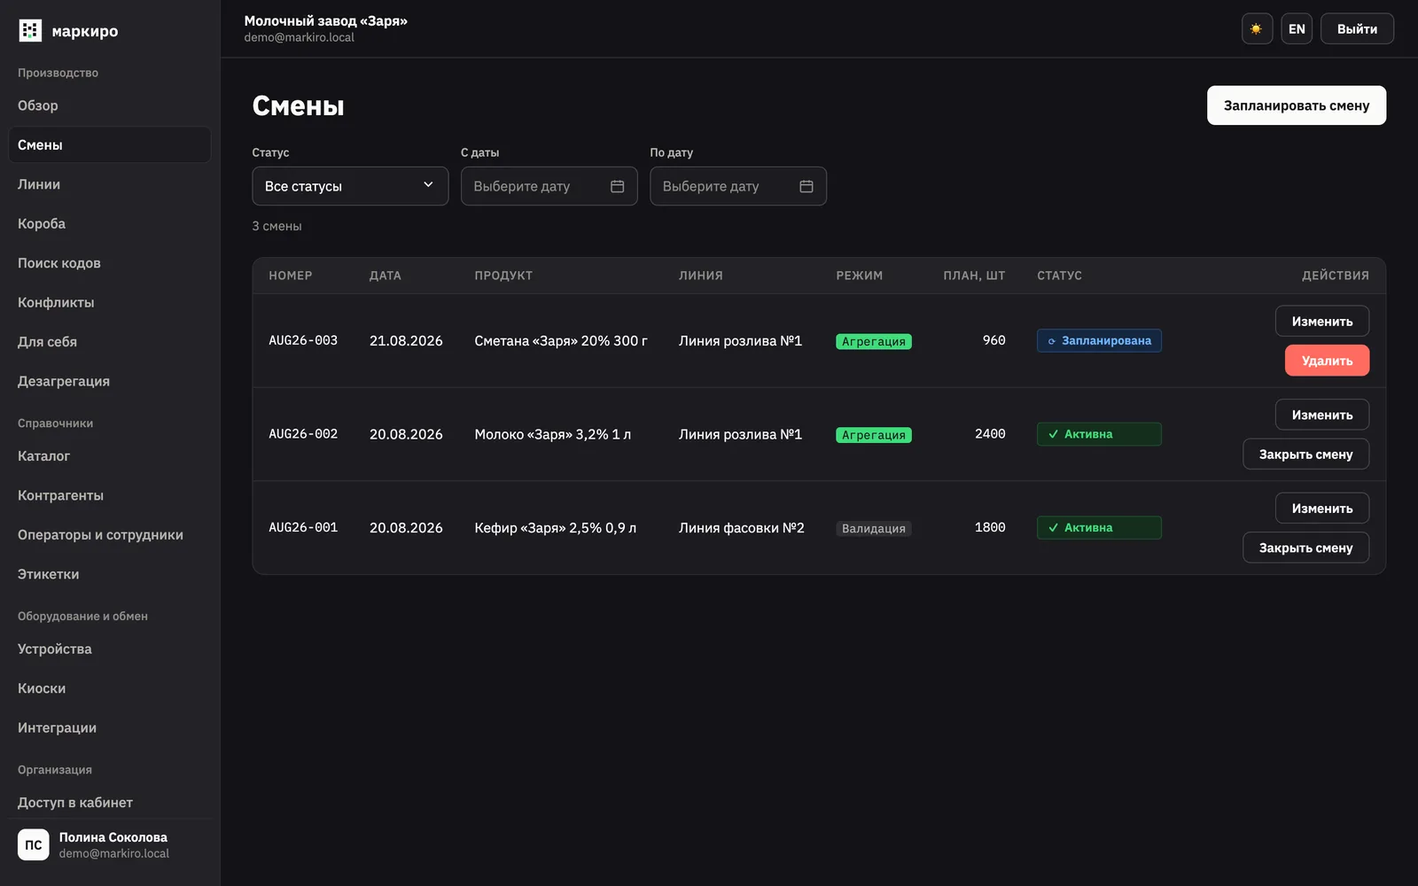
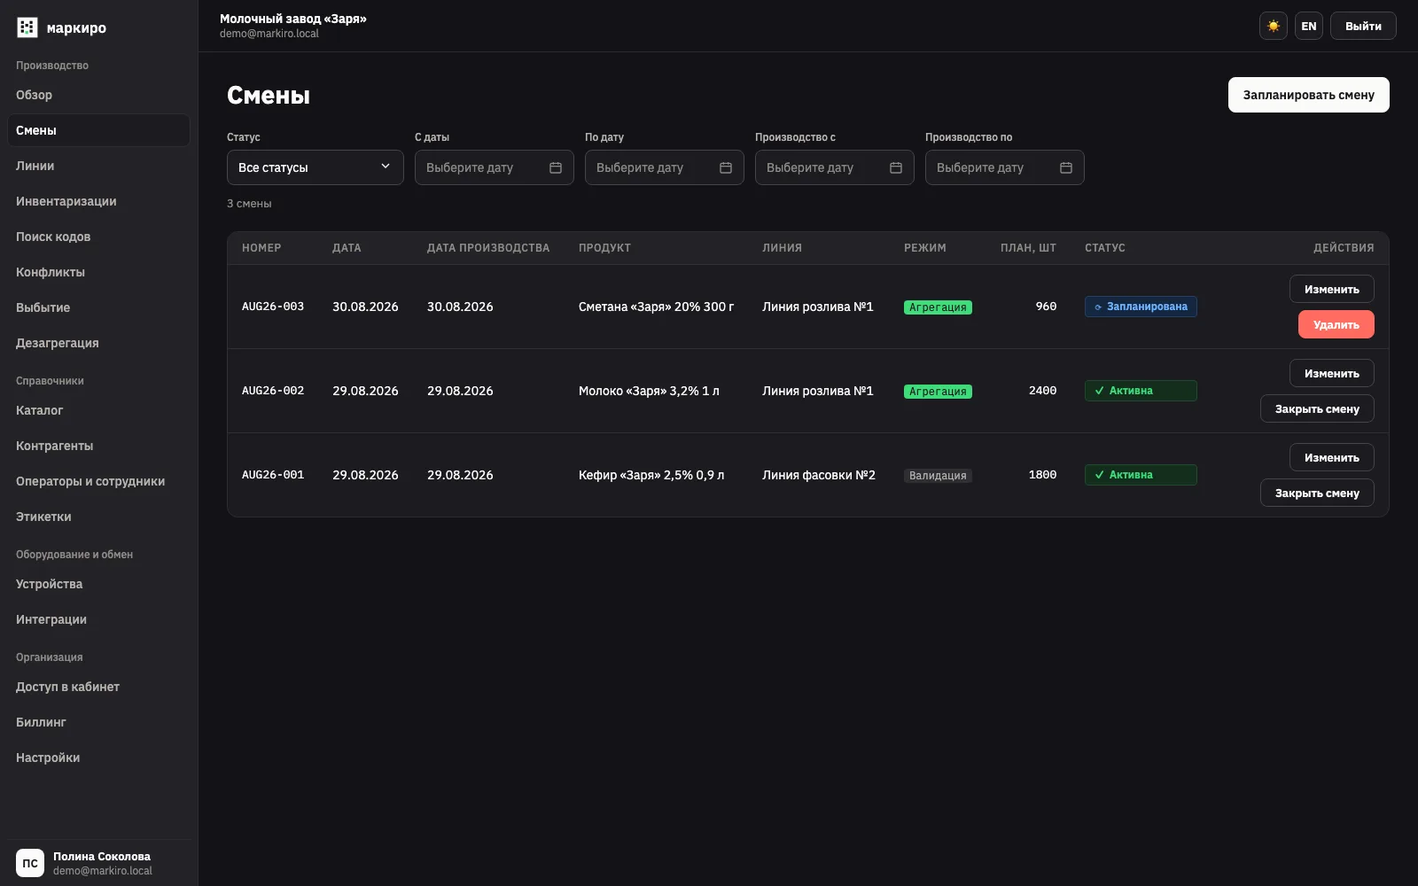
docs: refresh READMEs and recapture all three screenshots (#362)
The READMEs had drifted over ~50 commits. Corrections:

- pnpm 11.10 -> 11.22, matching packageManager in package.json.
- "box/pallet workflows" -> "box workflows". Pallets are not a
  workflow: palletsEnabled is an entitlement-gated shift flag and the
  station only reserves SSCC extension-digit ranges for them.
- Quick start failed on a fresh clone. .env.example ships
  PLATFORM_AUTH_SECRET empty, but apps/api/src/env.ts requires >=32
  characters and rejects a value equal to BETTER_AUTH_SECRET, so
  `cp .env.example .env` followed by the documented API start died with
  a ZodError. The block now generates one.

Additions: apps/signer and packages/platform-contracts in the workspace
tree, Signer plus the Chestny ZNAK True API edge in the architecture
diagram, Inventory and Chestny ZNAK capability rows, dashboard and
billing folded into the existing rows, and docs/runbooks in the docs
list.

All three screenshots were stale and are recaptured at 1600x1000:

- admin: the sidebar still showed "Для себя" and a separate "Киоски",
  both removed in #267. Recaptured against a seeded local API with data
  created through the real endpoints.
- station: the aggregation screen was redesigned; recaptured from the
  app's built-in screen gallery.
- kiosk: the header still read "маркиро · для себя"; current i18n is
  "выбытие". Rendered from the app's own components with fixture data.

Captions now say how each shot was produced rather than claiming all
[…]

diff --git a/README.ru.md b/README.ru.md
@@ -16,7 +16,7 @@
   <a href="https://github.com/thevladbog/markiro/actions/workflows/ci.yml"><img alt="CI" src="https://github.com/thevladbog/markiro/actions/workflows/ci.yml/badge.svg?branch=main"></a>
   <a href="https://github.com/thevladbog/markiro/actions/workflows/codeql.yml"><img alt="CodeQL" src="https://github.com/thevladbog/markiro/actions/workflows/codeql.yml/badge.svg"></a>
   <img alt="Node.js 24+" src="https://img.shields.io/badge/Node.js-24%2B-339933?logo=nodedotjs&logoColor=white">
-  <img alt="pnpm 11.10" src="https://img.shields.io/badge/pnpm-11.10-F69220?logo=pnpm&logoColor=white">
+  <img alt="pnpm 11.22" src="https://img.shields.io/badge/pnpm-11.22-F69220?logo=pnpm&logoColor=white">
   <img alt="TypeScript 6" src="https://img.shields.io/badge/TypeScript-6-3178C6?logo=typescript&logoColor=white">
   <img alt="Docker" src="https://img.shields.io/badge/Docker-ready-2496ED?logo=docker&logoColor=white">
   <img alt="PostgreSQL 17" src="https://img.shields.io/badge/PostgreSQL-17-4169E1?logo=postgresql&logoColor=white">
@@ -38,9 +38,10 @@
 
 - **Чтобы линия не останавливалась.** Станция и киоск сохраняют локальное состояние и восстанавливают работу после возвращения подключения.
 - **Чтобы отклонять некорректные данные на месте.** Общая логика GS1/GTIN/KM выявляет повреждённые коды, дубликаты и коды другого товара до того, как они создадут проблемы в отчётности.
-- **Чтобы агрегировать и печатать единообразно.** Пулы SSCC, операции с коробами и палетами, а также вывод в ZPL/TSPL опираются на общие доменные правила.
+- **Чтобы агрегировать и печатать единообразно.** Пулы SSCC, операции с коробами и вывод в ZPL/TSPL опираются на общие доменные правила.
+- **Чтобы замкнуть цикл инвентаризации.** Задания инвентаризации, пересчёт и переупаковка на станции и генерация документов ГИС МТ заменяют ручной обмен файлами с государственной системой.
 - **Чтобы каждая граница безопасности была явной.** Для данных арендаторов, сессий кабинета, учётных данных устройств и идентификации операторов действуют отдельные механизмы контроля.
-- **Чтобы интегрироваться с действующими системами.** API и обмен CommerceML/1C связывают «Маркиро» с существующими системами предприятия, сохраняя offline-first подход к восстановлению производства.
+- **Чтобы интегрироваться с действующими системами.** API, обмен CommerceML/1C и агент подписания для True API «Честного знака» связывают «Маркиро» с существующими системами предприятия, сохраняя offline-first подход к восстановлению производства.
 
 ## Интерфейсы продукта
 
@@ -50,23 +51,25 @@
     <td width="50%"><a href="./docs/assets/readme/kiosk.webp"><img alt="Скриншот киоска выдачи «Маркиро»" src="./docs/assets/readme/kiosk.webp"></a></td>
   </tr>
   <tr>
-    <td><strong>Админ-панель.</strong> Товары, смены, шаблоны этикеток, интеграции, команды, заказы на выдачу и операционный аудит.</td>
+    <td><strong>Админ-панель.</strong> Обзор, товары, смены, инвентаризации, шаблоны этикеток, интеграции, биллинг, доступ в кабинет и операционный аудит.</td>
     <td><strong>Киоск «Выбытие».</strong> Выдача сотрудникам по пропускам с локальными лимитами, offline-снимками, очередью заказов и восстановлением.</td>
   </tr>
 </table>
 
-<p align="center"><em>Скриншоты работающего приложения в локальной среде разработки с демонстрационными данными.</em></p>
+<p align="center"><em>Админ-панель снята на работающем локальном API с демонстрационными данными; экран киоска отрисован его собственными компонентами на фикстурных данных.</em></p>
 
 ## Основные возможности
 
-| Область           | Что реализовано                                                                                                 |
-| ----------------- | --------------------------------------------------------------------------------------------------------------- |
-| Коды и валидация  | Контрольные цифры GS1, нормализация GTIN, разбор KM, классификация сканов, обработка дубликатов и ошибок        |
-| Производство      | Смены, сканирование на нескольких терминалах, offline-журналы, синхронизация, конфликты, действия операторов    |
-| Агрегация         | Пулы SSCC, короба, этикетки коробов, аудит расформирования и повторной печати, общее состояние агрегации        |
-| Этикетки          | WYSIWYG-шаблоны, растеризация кириллицы, генерация ZPL/TSPL, привязка к товарам и сменам                        |
-| Выбытие           | Сопряжённые киоски, распознавание пропусков, дневные лимиты, offline-очередь и карантин, сверка с кабинетом     |
-| SaaS и интеграции | Мультитенантный кабинет, роли и возможности, обмен CommerceML/1C, отправка почты, приватное объектное хранилище |
+| Область           | Что реализовано                                                                                                       |
+| ----------------- | --------------------------------------------------------------------------------------------------------------------- |
+| Коды и валидация  | Контрольные цифры GS1, нормализация GTIN, разбор KM, классификация сканов, обработка дубликатов и ошибок              |
+| Производство      | Смены, сканирование на нескольких терминалах, offline-журналы, синхронизация, конфликты, действия операторов, дашборд |
+| Агрегация         | Пулы SSCC, короба, этикетки коробов, аудит расформирования и повторной печати, общее состояние агрегации              |
+| Инвентаризация    | Задания инвентаризации, пересчёт и переупаковка на станции, корректировки и поздние события, документы ГИС МТ         |
+| Этикетки          | WYSIWYG-шаблоны, растеризация кириллицы, генерация ZPL/TSPL, привязка к товарам и сменам                              |
+| Выбытие           | Сопряжённые киоски, распознавание пропусков, дневные лимиты, offline-очередь и карантин, сверка с кабинетом           |
+| «Честный знак»    | Агент подписания для аутентификации в True API, шифрованное хранение токена, товарные группы, выгрузки статусов кодов |
+| SaaS и интеграции | Мультитенантный кабинет, роли и возможности, биллинг и лимиты, обмен CommerceML/1C, почта, объектное хранилище        |
 
 ## Архитектура
 
@@ -76,10 +79,13 @@ flowchart LR
   Kiosk["Kiosk · React/Vite PWA"] --> API
   Station["Station · Tauri 2 + React"] -. "sync when connected" .-> API
   Station --> SQLite["Local SQLite journal"]
+  Signer["Signer · Tauri 2 + React"] -- "True API token" --> API
+  API -. "True API" .-> CHZ["Chestny ZNAK"]
   API --> PG["PostgreSQL 17"]
-  Shared["domain · db · ui · email"] --> Admin
+  Shared["domain · db · ui · email · platform-contracts"] --> Admin
   Shared --> Kiosk
   Shared --> Station
+  Shared --> Signer
   Shared --> API
 ```
 
@@ -90,7 +96,7 @@ flowchart LR
 ### Требования
 
 - Node.js 24 или новее
-- Corepack и pnpm 11.10.0
+- Corepack и pnpm 11.22.0
 - Docker с Docker Compose
 
 ```bash
@@ -99,6 +105,9 @@ pnpm install --frozen-lockfile
 pnpm --filter '@markiro/api^...' --filter '@markiro/admin^...' build
 if [ ! -e .env ]; then
   cp .env.example .env
+  # PLATFORM_AUTH_SECRET намеренно пуст в примере: API требует не менее
+  # 32 символов и отклоняет значение, совпадающее с BETTER_AUTH_SECRET.
+  printf 'PLATFORM_AUTH_SECRET=%s\n' "$(openssl rand -base64 32)" >> .env
 fi
 docker compose -f docker-compose.dev.yml up -d
 set -a
@@ -140,14 +149,16 @@ apps/
   admin/       React/Vite production cabinet
   kiosk/       Offline-first pickup PWA
   station/     Tauri/React line workstation
+  signer/      Tauri/React Chestny ZNAK signing agent (Windows)
   landing/     Public marketing website
   saas-admin/  SaaS operator panel
 packages/
-  domain/           GS1, KM, SSCC, labels, shared policy
-  db/               PostgreSQL schema, migrations, SQLite mirror
-  email/            Transactional email templates
-  ui/               Shared design tokens and React components
-  legal-documents/  Legal document sources and rendering
+  domain/              GS1, KM, SSCC, labels, shared policy
+  db/                  PostgreSQL schema, migrations, SQLite mirror
+  platform-contracts/  Shared platform, tenant, and agent API schemas
+  email/               Transactional email templates
+  ui/                  Shared design tokens and React components
+  legal-documents/     Legal document sources and rendering
 ```
 
 Точечная проверка во время разработки:
@@ -171,6 +182,7 @@ pnpm format:check
 - [Руководство для агентов](./AGENTS.md)
 - [Архитектура](./docs/architecture.md)
 - [Дизайн-брифы](./docs/design-briefs/)
+- [Эксплуатационные runbook’и](./docs/runbooks/)
 - [Планы реализации](./docs/superpowers/plans/)
 - [Дорожная карта MVP](./docs/superpowers/plans/2026-07-21-markiro-mvp-roadmap.md)
 - [Обозреватель OpenAPI](http://localhost:3000/docs), когда API запущен

diff --git a/README.md b/README.md
@@ -16,7 +16,7 @@
   <a href="https://github.com/thevladbog/markiro/actions/workflows/ci.yml"><img alt="CI" src="https://github.com/thevladbog/markiro/actions/workflows/ci.yml/badge.svg?branch=main"></a>
   <a href="https://github.com/thevladbog/markiro/actions/workflows/codeql.yml"><img alt="CodeQL" src="https://github.com/thevladbog/markiro/actions/workflows/codeql.yml/badge.svg"></a>
   <img alt="Node.js 24+" src="https://img.shields.io/badge/Node.js-24%2B-339933?logo=nodedotjs&logoColor=white">
-  <img alt="pnpm 11.10" src="https://img.shields.io/badge/pnpm-11.10-F69220?logo=pnpm&logoColor=white">
+  <img alt="pnpm 11.22" src="https://img.shields.io/badge/pnpm-11.22-F69220?logo=pnpm&logoColor=white">
   <img alt="TypeScript 6" src="https://img.shields.io/badge/TypeScript-6-3178C6?logo=typescript&logoColor=white">
   <img alt="Docker" src="https://img.shields.io/badge/Docker-ready-2496ED?logo=docker&logoColor=white">
   <img alt="PostgreSQL 17" src="https://img.shields.io/badge/PostgreSQL-17-4169E1?logo=postgresql&logoColor=white">
@@ -38,9 +38,10 @@ The platform is built for real production constraints: multiple terminals in one
 
 - **Keep the line moving.** Station and kiosk workflows retain local state and recover after connectivity returns.
 - **Reject bad input at the edge.** Shared GS1/GTIN/KM logic catches malformed, duplicate, and wrong-product codes before they become reporting problems.
-- **Aggregate and print consistently.** SSCC allocation, box/pallet workflows, and ZPL/TSPL output use shared domain rules.
+- **Aggregate and print consistently.** SSCC allocation, box workflows, and ZPL/TSPL output use shared domain rules.
+- **Close the inventory loop.** Inventory tasks, station recount and repack, and generated GISMT documents replace manual file exchange with the state system.
 - **Keep every boundary explicit.** Tenant data, cabinet sessions, device credentials, and operator identity have separate enforcement paths.
-- **Integrate with existing operations.** The API and CommerceML/1C flows connect Markiro to surrounding systems without moving factory recovery online-only.
+- **Integrate with existing operations.** The API, CommerceML/1C exchange, and the Chestny ZNAK True API agent connect Markiro to surrounding systems without moving factory recovery online-only.
 
 ## Product surfaces
 
@@ -50,23 +51,25 @@ The platform is built for real production constraints: multiple terminals in one
     <td width="50%"><a href="./docs/assets/readme/kiosk.webp"><img alt="Markiro pickup kiosk screenshot" src="./docs/assets/readme/kiosk.webp"></a></td>
   </tr>
   <tr>
-    <td><strong>Admin panel.</strong> Products, shifts, label templates, integrations, teams, pickup orders, and operational audit.</td>
+    <td><strong>Admin panel.</strong> Dashboard, products, shifts, inventories, label templates, integrations, billing, teams, and operational audit.</td>
     <td><strong>Disposal kiosk.</strong> Badge-based employee pickup with local limits, offline snapshots, queued orders, and recovery.</td>
   </tr>
 </table>
 
-<p align="center"><em>Screenshots of the live application running in a local development environment with demo data.</em></p>
+<p align="center"><em>The admin panel runs against a seeded local API; the kiosk screen is rendered from the app's own components with fixture data.</em></p>
 
 ## Core capabilities
 
-| Area                  | What is implemented                                                                                      |
-| --------------------- | -------------------------------------------------------------------------------------------------------- |
-| Codes and validation  | GS1 check digits, GTIN normalization, KM parsing, scan classification, duplicate/error handling          |
-| Production            | Shifts, multi-terminal scanning, offline journals, synchronization, conflicts, operator recovery actions |
-| Aggregation           | SSCC pools, boxes, box labels, disassembly/reprint audit, shared aggregation state                       |
-| Labels                | WYSIWYG templates, Cyrillic rasterization, ZPL/TSPL generation, product/shift bindings                   |
-| Disposal              | Paired kiosks, badge resolution, daily limits, offline queue/quarantine, cabinet reconciliation          |
-| SaaS and integrations | Multi-tenant cabinet, roles/capabilities, CommerceML/1C exchange, mail delivery, private object storage  |
+| Area                  | What is implemented                                                                                                 |
+| --------------------- | ------------------------------------------------------------------------------------------------------------------- |
+| Codes and validation  | GS1 check digits, GTIN normalization, KM parsing, scan classification, duplicate/error handling                     |
+| Production            | Shifts, multi-terminal scanning, offline journals, synchronization, conflicts, operator recovery actions, dashboard |
+| Aggregation           | SSCC pools, boxes, box labels, disassembly/reprint audit, shared aggregation state                                  |
+| Inventory             | Inventory tasks, station recount and repack, corrections and late events, GISMT aggregation XML and report package  |
+| Labels                | WYSIWYG templates, Cyrillic rasterization, ZPL/TSPL generation, product/shift bindings                              |
+| Disposal              | Paired kiosks, badge resolution, daily limits, offline queue/quarantine, cabinet reconciliation                     |
+| Chestny ZNAK          | Signer agent for the True API authentication flow, encrypted token storage, product groups, code-status exports     |
+| SaaS and integrations | Multi-tenant cabinet, roles/capabilities, billing and limits, CommerceML/1C exchange, mail, private object storage  |
 
 ## Architecture
 
@@ -76,10 +79,13 @@ flowchart LR
   Kiosk["Kiosk · React/Vite PWA"] --> API
   Station["Station · Tauri 2 + React"] -. "sync when connected" .-> API
   Station --> SQLite["Local SQLite journal"]
+  Signer["Signer · Tauri 2 + React"] -- "True API token" --> API
+  API -. "True API" .-> CHZ["Chestny ZNAK"]
   API --> PG["PostgreSQL 17"]
-  Shared["domain · db · ui · email"] --> Admin
+  Shared["domain · db · ui · email · platform-contracts"] --> Admin
   Shared --> Kiosk
   Shared --> Station
+  Shared --> Signer
   Shared --> API
 ```
 
@@ -90,7 +96,7 @@ Read [the architecture document](./docs/architecture.md) for tenant boundaries, 
 ### Prerequisites
 
 - Node.js 24 or newer
-- Corepack and pnpm 11.10.0
+- Corepack and pnpm 11.22.0
 - Docker with Docker Compose
 
 ```bash
@@ -99,6 +105,9 @@ pnpm install --frozen-lockfile
 pnpm --filter '@markiro/api^...' --filter '@markiro/admin^...' build
 if [ ! -e .env ]; then
   cp .env.example .env
+  # PLATFORM_AUTH_SECRET ships empty on purpose; the API requires at least
+  # 32 characters and rejects a value equal to BETTER_AUTH_SECRET.
+  printf 'PLATFORM_AUTH_SECRET=%s\n' "$(openssl rand -base64 32)" >> .env
 fi
 docker compose -f docker-compose.dev.yml up -d
 set -a
@@ -140,14 +149,16 @@ apps/
   admin/       React/Vite production cabinet
   kiosk/       Offline-first pickup PWA
   station/     Tauri/React line workstation
+  signer/      Tauri/React Chestny ZNAK signing agent (Windows)
   landing/     Public marketing website
   saas-admin/  SaaS operator panel
 packages/
-  domain/           GS1, KM, SSCC, labels, shared policy
-  db/               PostgreSQL schema, migrations, SQLite mirror
-  email/            Transactional email templates
-  ui/               Shared design tokens and React components
-  legal-documents/  Legal document sources and rendering
+  domain/              GS1, KM, SSCC, labels, shared policy
+  db/                  PostgreSQL schema, migrations, SQLite mirror
+  platform-contracts/  Shared platform, tenant, and agent API schemas
+  email/               Transactional email templates
+  ui/                  Shared design tokens and React components
+  legal-documents/     Legal document sources and rendering
 ```
 
 Focused iteration:
@@ -171,6 +182,7 @@ Database-backed tests require the exported `DATABASE_URL`. Report intentional sk
 - [Agent guide](./AGENTS.md)
 - [Architecture](./docs/architecture.md)
 - [Design briefs](./docs/design-briefs/)
+- [Operational runbooks](./docs/runbooks/)
 - [Implementation plans](./docs/superpowers/plans/)
 - [MVP roadmap](./docs/superpowers/plans/2026-07-21-markiro-mvp-roadmap.md)
 - [OpenAPI explorer](http://localhost:3000/docs) when the API is running
